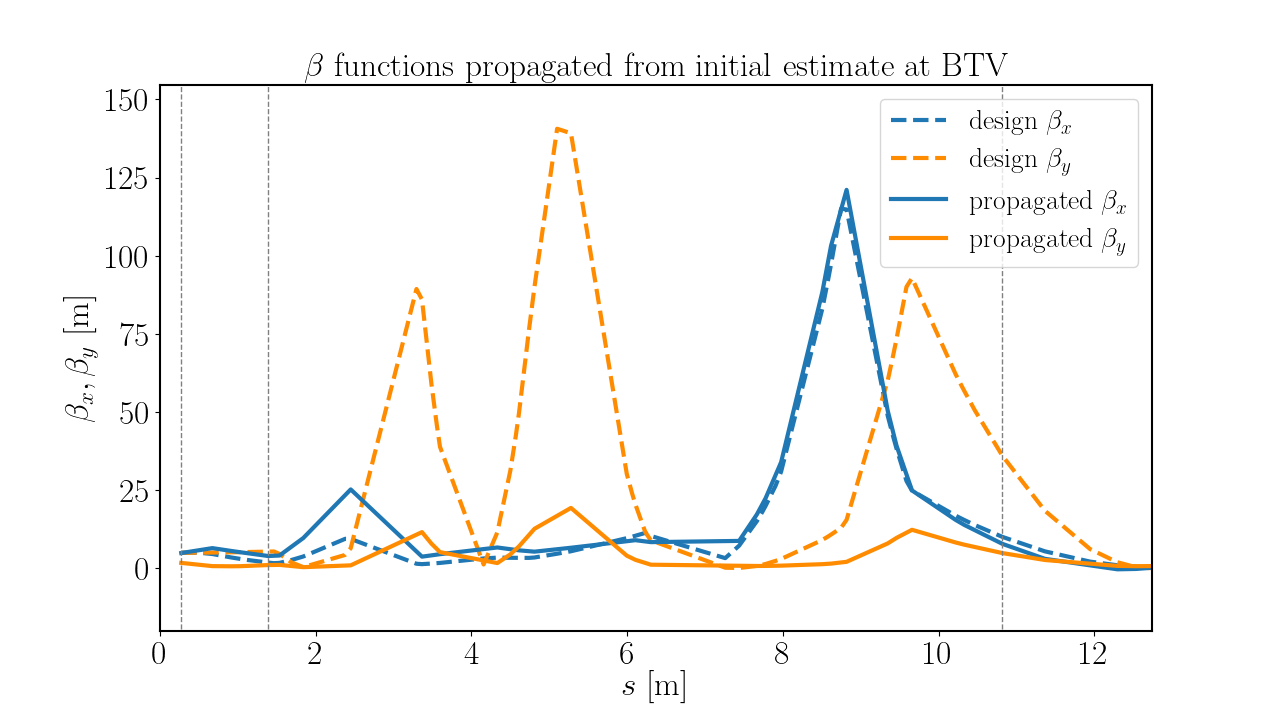
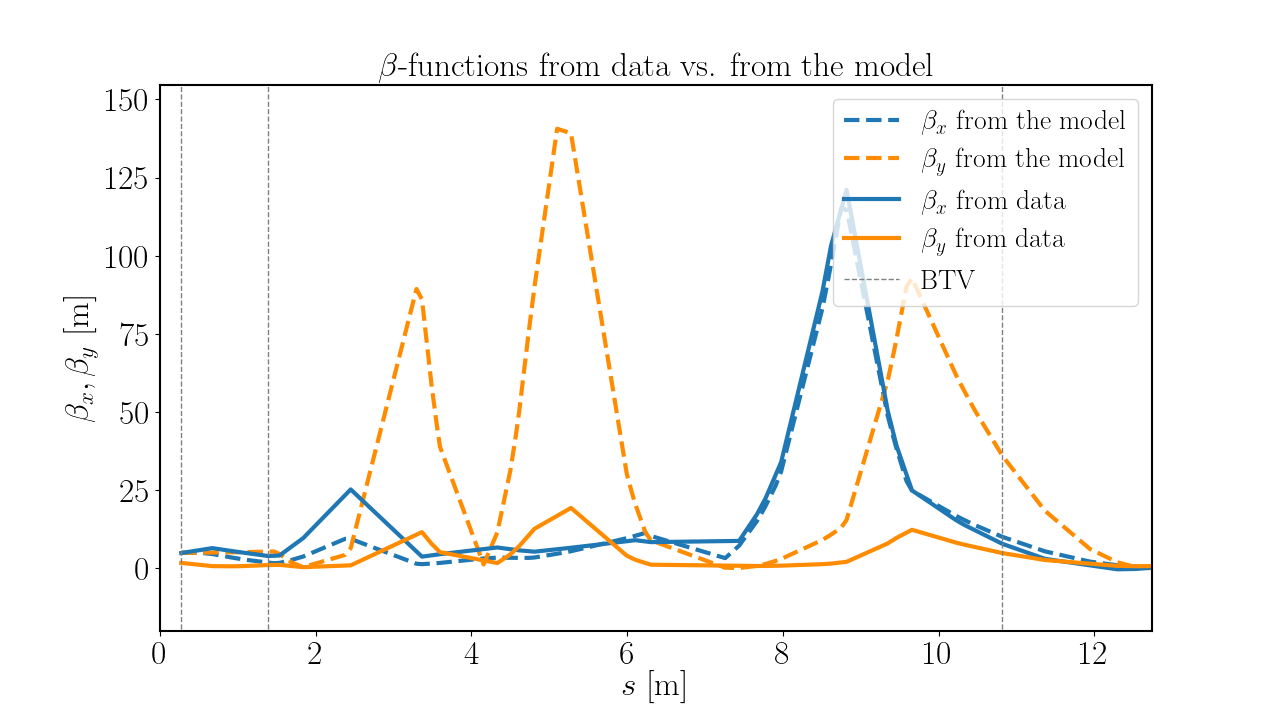
Expand explanation of beam propagation

diff --git a/plotting.py b/plotting.py
@@ -153,8 +153,8 @@ def plot_twiss(btv_calc_inst, btv, btvs, gamma_r, estimates, data_xy, twiss):
     # Propagate Twiss values calculated from data using the beamline model
 
     plt.figure(figsize=(15, 8))
-    plt.plot(twiss["s"], twiss["betx"], '--', color="tab:blue", label=r"design $\beta_x$")
-    plt.plot(twiss["s"], twiss["bety"], '--', color="darkorange", label=r"design $\beta_y$")
+    plt.plot(twiss["s"], twiss["betx"], '--', color="tab:blue", label=r"$\beta_x$ from the model")
+    plt.plot(twiss["s"], twiss["bety"], '--', color="darkorange", label=r"$\beta_y$ from the model")
     for i in twiss["name"]:
         if twiss["s"][twiss["name"] == i] < twiss["s"][twiss["name"] == (btv[0] + ":1")]:
             pass
@@ -181,10 +181,10 @@ def plot_twiss(btv_calc_inst, btv, btvs, gamma_r, estimates, data_xy, twiss):
             alpha_y = -beta_y_0 * r11 * r21 + r22 * r11 * alpha_y_0 + r12 * r21 * alpha_y_0 - gamma_y_0 * r12 * r22
             s = np.append(s, twiss["s"][twiss["name"] == i])
 
-    plt.plot(s, beta_x, color="tab:blue", label=r"propagated $\beta_x$")
-    plt.plot(s, beta_y, color="darkorange", label=r"propagated $\beta_y$")
+    plt.plot(s, beta_x, color="tab:blue", label=r"$\beta_x$ from data")
+    plt.plot(s, beta_y, color="darkorange", label=r"$\beta_y$ from data")
     plt.xlabel("$s$ [m]", labelpad=0.5)
-    plt.title(r"$\beta$ functions propagated from initial estimate at BTV")
+    plt.title(r"$\beta$-functions from data vs. from the model")
     plt.ylabel(r"$\beta_x, \beta_y$ [m]", labelpad=5)
     plt.ylim(-20, np.max(np.hstack((twiss["betx"], twiss["bety"], beta_x, beta_y))) * 1.1)
     plt.xlim(0, twiss["s"][-1])
@@ -192,4 +192,5 @@ def plot_twiss(btv_calc_inst, btv, btvs, gamma_r, estimates, data_xy, twiss):
         plt.plot([twiss["s"][twiss["name"] == (i + ":1")][0], twiss["s"][twiss["name"] == (i + ":1")][0]], [-100, 400],
                  '--',
                  color="gray", linewidth=1)
-    plt.legend()
+    plt.plot([],  '--',  color="gray", linewidth=1, label="BTV")
+    plt.legend(loc=1)

diff --git a/README.md b/README.md
@@ -1,8 +1,17 @@
 # n_screen_scan
 
+This is code for the calculation of beam paramters such as the emittance, dispersion and Twiss parameters
+from BTV data (3+ BTVs required). A BTV is a beam screen, it captures a 2D (x-y) image of the beam as it passes. We need to understand the beam in 6D.
+
+By combining the BTV data with a simulation of the beamline we can reconstruct the initial beam parameters at the start of the beamline. 
+To have an accurate model of the beam, it is essential to regularly measure the beam parameters because they can vary from hour-to-hour.
+
+This code pulls the current beamline magnet settings from Git (requires being at CERN for this functionality), takes data from the BTVs (n shots per BTV),
+and uses a simulation of the beamline to model the beam dynamics between the BTVs. Beam propagation through magnets and drifts are modelled using 6D matrixes quantified in the code by the parameters R**. 
+
 ## Run BTV_run.py
 
-`BTV_run.py` will take beam parameters from `BTV_config.txt` 
+`BTV_run.py` will take parameters from the config file `BTV_config.txt` 
 and use `BTV_calculations.py` to take data from the specified number
 of BTV detectors to calculate the emittance of the beam. 
 
